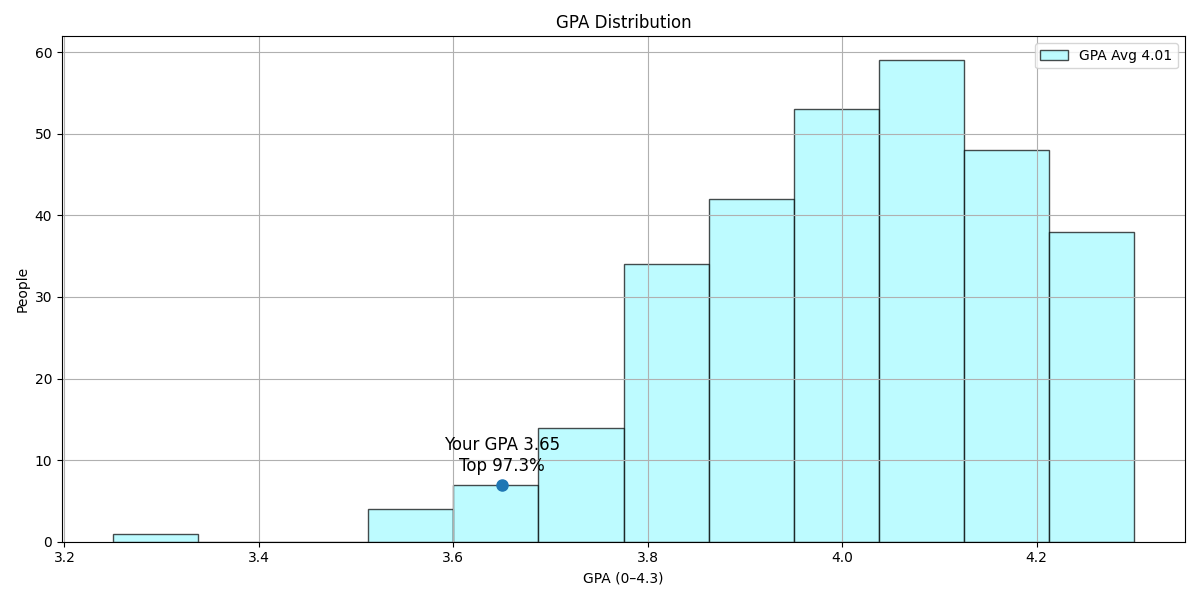
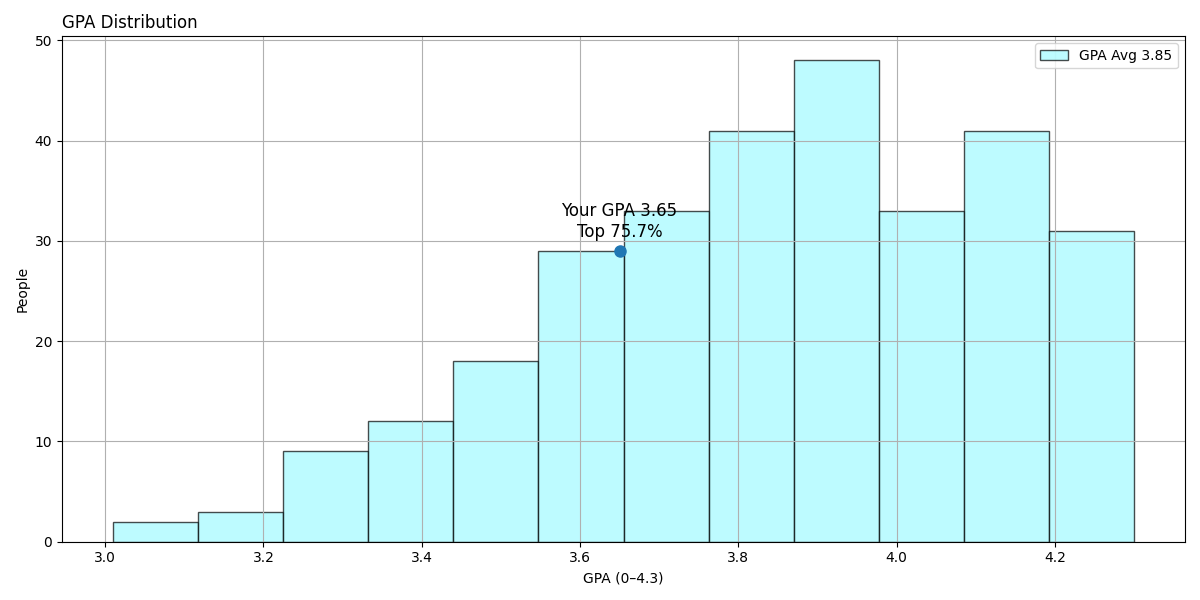
調整角色成長計算邏輯及GPA分數顯示，更新相關圖表標題及數據

diff --git a/character.py b/character.py
@@ -33,7 +33,7 @@ class Character:
             self.social * 0.03
         )
         growth = round(growth/(1+((8 - self.week_number) * 0.1)),2) if self.week_number < 8 else round(growth/(1+((16 - self.week_number) * 0.1)),2)
-        self.last_week_change = [-15, -12, 0, growth+3]
+        self.last_week_change = [-int(growth*0.8), -int(growth*0.5)-3, 0, growth+1]
         self.last_week_change = [int(grow * degree) for grow in self.last_week_change] 
         
         self.mood , self.energy , self.social, self.knowledge = \
@@ -49,7 +49,7 @@ class Character:
             (self.mood - 50) * 0.03 +
             (self.energy) * 0.01
         )
-        self.last_week_change = [ 3, -5, growth, 3+int(round(growth * self.social * 0.01))]
+        self.last_week_change = [ 4, -5, growth, 4+int(round(growth * self.social * 0.01))]
         self.last_week_change = [int(grow * degree) for grow in self.last_week_change] 
         
         self.mood , self.energy , self.social, self.knowledge = \
@@ -65,9 +65,9 @@ class Character:
             (100 - self.mood) * 0.2 +
             (self.intelligence - 30) * 0.02 +
             (self.energy) * 0.01 -
-            (self.social - 30) * 0.01
+            (self.social) * 0.01
         )
-        self.last_week_change = [growth, 3, 0, 3+int(round(-growth * 0.1))]
+        self.last_week_change = [growth, int(growth*0.2), 1, 1+int(round(-growth * 0.1))]
         self.last_week_change = [int(grow * degree) for grow in self.last_week_change] 
         self.mood , self.energy , self.social, self.knowledge = \
             min(100, self.mood + self.last_week_change[0]),\
@@ -83,7 +83,7 @@ class Character:
             (self.intelligence - 50) * 0.2 -
             (self.social - 30) * 0.01
         )
-        self.last_week_change = [int(growth*0.6), growth, 1, 3+int(round(-growth * 0.1))]
+        self.last_week_change = [int(growth*0.6), growth, 1, 2+int(round(-growth * 0.1))]
         self.last_week_change = [int(grow * degree) for grow in self.last_week_change]
         self.mood , self.energy , self.social, self.knowledge = \
             min(100, self.mood + self.last_week_change[0]),\
@@ -106,12 +106,12 @@ class Character:
     
 
     def get_final(self):
-        self.final = round(self.calculate_grade()) -20
+        self.final = round(self.calculate_grade()) -15
 
 
     def calculate_GPA(self):
         total_score = self.midterm * 0.35 + self.final * 0.35 + (self.knowledge) * 0.3
-        total_score = max(0, int(math.sqrt(total_score) * 12 - 20))
+        total_score = max(0, int(math.sqrt(total_score) * 13 - 30))
         self.total_score = total_score
         gpa = []
         for _ in range(25):
@@ -186,11 +186,11 @@ class Bubu(Character):
     def get_midterm(self):
         self.midterm = self.calculate_grade() + self.knowledge * 0.4
         if self.mood > 65:
-            self.midterm += 10
+            self.midterm += 6
         if self.energy < 70:
-            self.midterm -= 3
+            self.midterm -= 2
         if self.knowledge > 35:
-            self.midterm += 8
+            self.midterm += 6
         self.midterm = int(round(self.midterm))
 
 
@@ -282,7 +282,7 @@ class Mitao(Character):
 
     def get_midterm(self):
         self.midterm = min(100, self.calculate_grade() + self.knowledge * 0.2)
-        self.midterm += 10
+        self.midterm += 6
         if self.mood < 60:
             self.midterm -= 4
         if self.knowledge > 45:
@@ -331,7 +331,7 @@ class Huihui(Character):
     def get_midterm(self):
         self.midterm = min(100, self.calculate_grade() + self.knowledge * 0.2)
         if self.mood > 85:
-            self.midterm += 7
+            self.midterm += 5
         if self.energy < 50:
             self.midterm -= 3
         if self.knowledge > 30:

diff --git a/simulation.py b/simulation.py
@@ -122,7 +122,8 @@ class Simulation:
         if highlight_final is not None:
             plot_highlight(highlight_final, fin_x, smooth_fin_y, "red", "Your Final", self.final)
 
-        ax.set_title("Score Distribution of Midterm and Final Exams")
+        # 設定圖表標題置左
+        ax.set_title("Midterm and Final Score Distribution", loc='left')
         ax.set_xlabel("Score")
         ax.set_ylabel("People")
         ax.legend()
@@ -152,7 +153,7 @@ class Simulation:
                     f"Your Total {highlight:.1f}\nTop {pct:.1f}%", 
                     ha="center", va="bottom", fontsize=12)
 
-        ax.set_title("Total Score Distribution")
+        ax.set_title("Total Score Distribution", loc='left')
         ax.set_xlabel("Total Score"); ax.set_ylabel("People")
         ax.legend(); ax.grid(True); fig.tight_layout()
 
@@ -221,8 +222,8 @@ class Simulation:
                 va="bottom", ha="center", fontsize=12
             )
 
-        ax.set_title("GPA Distribution")
-        ax.set_xlabel("GPA (0–4.3)")
+        ax.set_title("GPA Distribution", loc='left')
+        ax.set_xlabel("GPA (0 ~ 4.3)")
         ax.set_ylabel("People")
         ax.legend()
         ax.grid(True)
